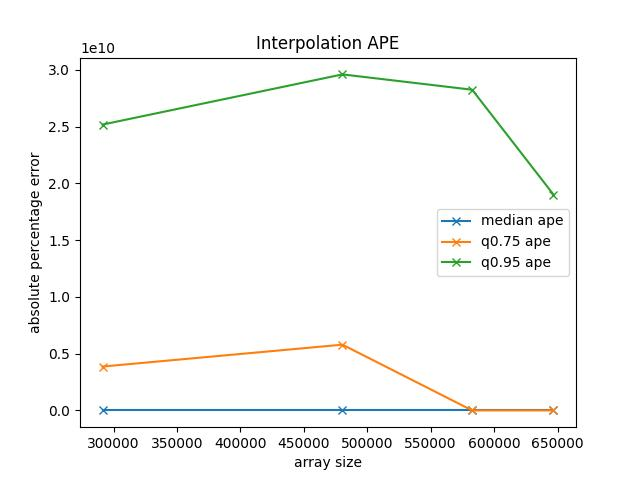
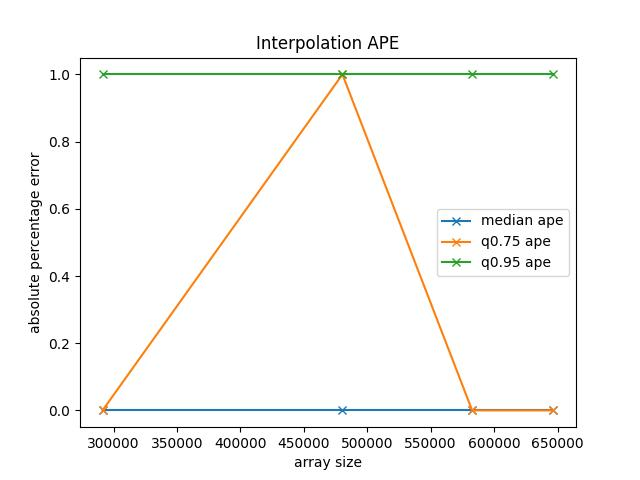
fix triangle search

diff --git a/src/triangulation.h b/src/triangulation.h
@@ -13,29 +13,29 @@ public:
     pbbsbench::triangles<pbbsbench::pointT> triangulation;
     parlay::sequence<parlay::sequence<uint32_t>> adj_p2t;
     std::unordered_map<uint32_t, parlay::sequence<uint32_t>> adj_e2t;
-    py::array_t<int32_t, py::array::c_style | py::array::forcecast> vertices;
+    py::array_t<double, py::array::c_style | py::array::forcecast> vertices;
     py::array_t<int32_t, py::array::c_style | py::array::forcecast> triangles;
     Triangulation() = default;
     Triangulation(pbbsbench::triangles<pbbsbench::pointT>& triangulation);
     ~Triangulation();
     bool point_in_triangle(parlay::sequence<pair<double, uint32_t>>& bar_coords);
     bool point_in_triangle(int32_t x, int32_t y, pbbsbench::tri& triangle);
-    int32_t check_adj_triangles(int32_t x, int32_t y, uint32_t t);
-    int32_t find_triangle(pbbsbench::pointT& p);
-    int32_t find_triangle(int32_t x, int32_t y);
-    int32_t check_neighborhood(int32_t x, int32_t y, int32_t pi);
-    parlay::sequence<std::pair<double, uint32_t>> barycentric_coordinates(int32_t x, int32_t y, uint32_t t);
+    int32_t check_adj_triangles(double x, double y, uint32_t t);
+    //int32_t find_triangle(pbbsbench::pointT& p);
+    int32_t find_triangle(double x, double y);
+    int32_t check_neighborhood(double x, double y, int32_t pi);
+    parlay::sequence<std::pair<double, uint32_t>> barycentric_coordinates(double x, double y, uint32_t t);
 };
 
 Triangulation::Triangulation(pbbsbench::triangles<pbbsbench::pointT>& triangulation) {
     this -> triangulation = triangulation;
-    uint32_t n = triangulation.P.size();
-    uint32_t m = triangulation.T.size();
+    uint32_t n = triangulation.numPoints();
+    uint32_t m = triangulation.numTriangles();
     std::vector<int64_t> points_shape = {long(triangulation.P.size()), 2};
     std::vector<int64_t> triangles_shape = {long(triangulation.T.size()), 3};
-    std::vector<int64_t> points_strides = {sizeof(int32_t) * 2, sizeof(int32_t)};
+    std::vector<int64_t> points_strides = {sizeof(double) * 2, sizeof(double)};
     std::vector<int64_t> triangles_strides = {sizeof(int32_t) * 3, sizeof(int32_t)};
-    std::vector<int32_t> flatten_points(2 * n);
+    std::vector<double> flatten_points(2 * n);
     std::vector<int32_t> flatten_triangles(3 * m);
 
     parlay::parallel_for(0, n, [&](uint32_t i) {
@@ -82,7 +82,14 @@ Triangulation::~Triangulation() {
 }
 
 bool Triangulation::point_in_triangle(parlay::sequence<pair<double, uint32_t>>& bar_coords) {
-    return bar_coords[0].first > 0 and bar_coords[1].first > 0 and bar_coords[2].first > 0;
+    auto r1 = bar_coords[0].first;
+    auto r2 = bar_coords[1].first;
+    auto r3 = bar_coords[2].first;
+    if ((r1 > 0.0 && r1 < 1.0) and (r2 > 0.0 && r2 < 1.0) and (r3 > 0.0 && r3 < 1.0))
+        return true;
+    bool mb_on_edge = ((r1 >= 0.0 && r1 <= 1.0) and (r2 >= 0.0 && r2 <= 1.0) and (r3 >= 0.0 && r3 <= 1.0));
+    return mb_on_edge and (r1 == 0.0 or r2 == 0.0 or r3 == 0.0);
+
 }
 
 bool Triangulation::point_in_triangle(int32_t x, int32_t y, pbbsbench::tri& triangle) {
@@ -109,16 +116,29 @@ bool Triangulation::point_in_triangle(int32_t x, int32_t y, pbbsbench::tri& tria
 //    return -1;
 //}
 
-int32_t Triangulation::find_triangle(int32_t x, int32_t y) {
-    for (int32_t i = 0; i < triangulation.T.size(); ++i) {
-        if (point_in_triangle(x, y, triangulation.T[i])) {
-            return i;
+int32_t Triangulation::find_triangle(double x, double y) {
+//    for (int32_t i = 0; i < triangulation.T.size(); ++i) {
+//        if (point_in_triangle(x, y, triangulation.T[i])) {
+//            return i;
+//        }
+//    }
+    auto min_d = std::numeric_limits<int64_t>::max();
+    uint32_t j = 0;
+    for (uint32_t i = 0; i < triangulation.numPoints(); ++i) {
+        auto p = triangulation.P[i];
+        double dx = (p.x - x);
+        double dy = (p.y - y);
+        double d = dx * dx + dy * dy;
+        if (min_d > d) {
+            min_d = d;
+            j = i;
         }
     }
-    return -1;
+
+    return check_neighborhood(x, y, int32_t(j));
 }
 
-int32_t Triangulation::check_adj_triangles(int32_t x, int32_t y, uint32_t t) {
+int32_t Triangulation::check_adj_triangles(double x, double y, uint32_t t) {
     for (uint32_t i = 0; i < 3; ++i) {
         uint32_t a = triangulation.T[t][i];
         uint32_t b = triangulation.T[t][(i + 1) % 3];
@@ -129,15 +149,17 @@ int32_t Triangulation::check_adj_triangles(int32_t x, int32_t y, uint32_t t) {
         for (auto& tt : adj_e2t[e]) {
             if (tt != t) {
                 auto bar_coords = barycentric_coordinates(x, y, tt);
-                if (point_in_triangle(bar_coords))
+//                std::cout << bar_coords[0].first << ' ' << bar_coords[1].first << ' ' << bar_coords[2].first << std::endl;
+                if (point_in_triangle(bar_coords)) {
                     return tt;
+                }
             }
         }
     }
     return -1;
 }
 
-int32_t Triangulation::check_neighborhood(int32_t x, int32_t y, int32_t pi) {
+int32_t Triangulation::check_neighborhood(double x, double y, int32_t pi) {
     for (auto& t : this -> adj_p2t[pi]) {   // A bit of overhead :retard:
         auto j = check_adj_triangles(x, y, t);
         if (j != -1)
@@ -146,31 +168,31 @@ int32_t Triangulation::check_neighborhood(int32_t x, int32_t y, int32_t pi) {
     return -1;
 }
 
-parlay::sequence<std::pair<double, uint32_t>> Triangulation::barycentric_coordinates(int32_t x, int32_t y, uint32_t t) {
+parlay::sequence<std::pair<double, uint32_t>> Triangulation::barycentric_coordinates(double x, double y, uint32_t t) {
     // https://en.wikipedia.org/wiki/Barycentric_coordinate_system#Vertex_approach
 
     uint32_t i = triangulation.T[t][0];
     uint32_t j = triangulation.T[t][1];
     uint32_t k = triangulation.T[t][2];
 
-    int32_t x1 = triangulation.P[i].x;
-    int32_t y1 = triangulation.P[i].y;
-    int32_t x2 = triangulation.P[j].x;
-    int32_t y2 = triangulation.P[j].y;
-    int32_t x3 = triangulation.P[k].x;
-    int32_t y3 = triangulation.P[k].y;
+    double x1 = triangulation.P[i].x;
+    double x2 = triangulation.P[j].x;
+    double y1 = triangulation.P[i].y;
+    double y2 = triangulation.P[j].y;
+    double x3 = triangulation.P[k].x;
+    double y3 = triangulation.P[k].y;
 
-    int32_t dx32 = x3 - x2;
-    int32_t dx13 = x1 - x3;
-    int32_t dx21 = x2 - x1;
+    double dx32 = x3 - x2;
+    double dx13 = x1 - x3;
+    double dx21 = x2 - x1;
 
-    int32_t dy23 = y2 - y3;
-    int32_t dy31 = y3 - y1;
-    int32_t dy12 = y1 - y2;
+    double dy23 = y2 - y3;
+    double dy31 = y3 - y1;
+    double dy12 = y1 - y2;
 
-    int32_t dxy23 = x2*y3 - x3*y2;
-    int32_t dxy31 = x3*y1 - x1*y3;
-    int32_t dxy12 = x1*y2 - x2*y1;
+    double dxy23 = x2*y3 - x3*y2;
+    double dxy31 = x3*y1 - x1*y3;
+    double dxy12 = x1*y2 - x2*y1;
 
     double one_over_2area = 1.0 / double(dxy12 + dxy31 + dxy23);
 

diff --git a/src/interpolator.h b/src/interpolator.h
@@ -12,71 +12,75 @@ class BiLinearInterpolator {
 public:
     Triangulation triangulation;
     py::array_t<float, py::array::c_style | py::array::forcecast> values;
-    py::array_t<float, py::array::c_style | py::array::forcecast> barycenters;
+//    py::array_t<float, py::array::c_style | py::array::forcecast> barycenters;
     BiLinearInterpolator() = default;
-    BiLinearInterpolator(const py::array_t<int32_t, py::array::c_style | py::array::forcecast>& points,
+    BiLinearInterpolator(const py::array_t<double, py::array::c_style | py::array::forcecast>& points,
                          const py::array_t<float, py::array::c_style | py::array::forcecast>& values);
-    double bilinear_barycentric_interpolation(int32_t& t, parlay::sequence<std::pair<double, uint32_t>>& bar_coords);
-    py::array_t<float, py::array::c_style | py::array::forcecast> call(const py::array_t<int32_t, py::array::c_style | py::array::forcecast>& points,
+    double bilinear_barycentric_interpolation(int32_t t, double fill_value, parlay::sequence<std::pair<double, uint32_t>>& bar_coords);
+    py::array_t<float, py::array::c_style | py::array::forcecast> call(const py::array_t<double, py::array::c_style | py::array::forcecast>& points,
                                                                        const py::array_t<int32_t, py::array::c_style | py::array::forcecast>& neighbors,
                                                                        float fill_value = 0.0);
 };
 
-BiLinearInterpolator::BiLinearInterpolator(const py::array_t<int32_t, py::array::c_style | py::array::forcecast>& points,
+BiLinearInterpolator::BiLinearInterpolator(const py::array_t<double, py::array::c_style | py::array::forcecast>& points,
                                            const py::array_t<float, py::array::c_style | py::array::forcecast>& values) {
     this -> values = values;
     this -> triangulation = pbbsbench::numpy_delaunay(points);
 
     uint32_t m = this -> triangulation.triangulation.T.size();
 
-    parlay::sequence<float> barycenters_(2 * m);
+//    parlay::sequence<float> barycenters_(2 * m);
+//
+//    parlay::parallel_for(0, m, [&](uint32_t t) {
+//        int32_t i = this -> triangulation.triangulation.T[t][0];
+//        int32_t j = this -> triangulation.triangulation.T[t][1];
+//        int32_t k = this -> triangulation.triangulation.T[t][2];
+//
+//        int32_t x1 = triangulation.triangulation.P[i].x;
+//        int32_t y1 = triangulation.triangulation.P[i].y;
+//        int32_t x2 = triangulation.triangulation.P[j].x;
+//        int32_t y2 = triangulation.triangulation.P[j].y;
+//        int32_t x3 = triangulation.triangulation.P[k].x;
+//        int32_t y3 = triangulation.triangulation.P[k].y;
+//
+//        float x = float(x1 + x2 + x3) / 3.0;
+//        float y = float(y1 + y2 + y3) / 3.0;
+//        barycenters_[2 * t] = x;
+//        barycenters_[2 * t + 1] = y;
+//    });
 
-    parlay::parallel_for(0, m, [&](uint32_t t) {
-        int32_t i = this -> triangulation.triangulation.T[t][0];
-        int32_t j = this -> triangulation.triangulation.T[t][1];
-        int32_t k = this -> triangulation.triangulation.T[t][2];
-
-        int32_t x1 = triangulation.triangulation.P[i].x;
-        int32_t y1 = triangulation.triangulation.P[i].y;
-        int32_t x2 = triangulation.triangulation.P[j].x;
-        int32_t y2 = triangulation.triangulation.P[j].y;
-        int32_t x3 = triangulation.triangulation.P[k].x;
-        int32_t y3 = triangulation.triangulation.P[k].y;
-
-        float x = float(x1 + x2 + x3) / 3.0;
-        float y = float(y1 + y2 + y3) / 3.0;
-        barycenters_[2 * t] = x;
-        barycenters_[2 * t + 1] = y;
-    });
-
-    std::vector<int64_t> shape = {m, 2};
-    std::vector<int64_t> strides = {sizeof(float) * 2, sizeof(float)};
-    this -> barycenters = {std::move(shape), std::move(strides), barycenters_.data()};
+//    std::vector<int64_t> shape = {m, 2};
+//    std::vector<int64_t> strides = {sizeof(float) * 2, sizeof(float)};
+//    this -> barycenters = {std::move(shape), std::move(strides), barycenters_.data()};
 
 }
 
-double BiLinearInterpolator::bilinear_barycentric_interpolation(int32_t& t, parlay::sequence<std::pair<double, uint32_t>>& bar_coords) {
-    double f1 = this -> values.at(bar_coords[0].second);
-    double f2 = this -> values.at(bar_coords[1].second);
-    double f3 = this -> values.at(bar_coords[2].second);
+double BiLinearInterpolator::bilinear_barycentric_interpolation(int32_t t, double fill_value, parlay::sequence<std::pair<double, uint32_t>>& bar_coords) {
+    uint32_t i = bar_coords[0].second;
+    uint32_t j = bar_coords[0].second;
+    uint32_t k = bar_coords[0].second;
+    uint32_t n = this -> triangulation.triangulation.numPoints() - 24;
+    double f1 = i < n ? this -> values.at(i) : fill_value;
+    double f2 = j < n ? this -> values.at(j) : fill_value;
+    double f3 = k < n ? this -> values.at(k) : fill_value;
     auto interpolated = (bar_coords[0].first * f1 + bar_coords[1].first * f2 + bar_coords[2].first * f3);
     return interpolated;
 }
 
-py::array_t<float, py::array::c_style | py::array::forcecast> BiLinearInterpolator::call(const py::array_t<int32_t, py::array::c_style | py::array::forcecast>& points,
+py::array_t<float, py::array::c_style | py::array::forcecast> BiLinearInterpolator::call(const py::array_t<double, py::array::c_style | py::array::forcecast>& points,
                                                                                          const py::array_t<int32_t, py::array::c_style | py::array::forcecast>& neighbors,
                                                                                          float fill_value) {
     uint32_t n = points.shape()[0];
     parlay::sequence<float> interpolated(n, fill_value);
 
     parlay::parallel_for(0, n, [&](uint32_t i) {
-        int32_t x = points.at(i, 0);
-        int32_t y = points.at(i, 1);
+        double x = points.at(i, 0);
+        double y = points.at(i, 1);
         int32_t neighbor = neighbors.at(i);
         int32_t t = this -> triangulation.check_neighborhood(x, y, neighbor);
         if (t != -1) {
             auto bar_coords = triangulation.barycentric_coordinates(x, y, t);
-            interpolated[i] = bilinear_barycentric_interpolation(t, bar_coords);
+            interpolated[i] = bilinear_barycentric_interpolation(t, fill_value, bar_coords);
         }
     });
 

diff --git a/src/delaunay.cpp b/src/delaunay.cpp
@@ -211,12 +211,11 @@ void generate_boundary(sequence<pointT> const &P,
   double stretch = 10.0;
   double radius = stretch*size;
   pointT center = max_corner + (max_corner-min_corner)/2.0;
-  double pi = 3.14159;
-
+  constexpr double pi2 = 2.0 * 3.14159265359;
   // Generate the bounding points on a circle far outside the bounding box
   for (size_t i=0; i < boundary_size; i++) {
-    double x = radius * cos(2*pi*((float) i)/((float) boundary_size));
-    double y = radius * sin(2*pi*((float) i)/((float) boundary_size));
+    double x = radius * cos(pi2*((double) i)/((double) boundary_size));
+    double y = radius * sin(pi2*((double) i)/((double) boundary_size));
     pointT pt = center + vect(x,y);
     V[i+n] = vertex_t(pt, i + n);
   }
@@ -317,7 +316,7 @@ triangles<pointT> delaunay(const sequence<pointT> &P) {
 
   pargeo::timer t("delaunay", false);
   t.start();
-  size_t boundary_size = 10;
+  size_t boundary_size = 24;
   size_t n = P.size();
 
   // All vertices needed
@@ -361,37 +360,36 @@ triangles<pointT> delaunay(const sequence<pointT> &P) {
   if (CHECK) check_delaunay(Triangles, boundary_size);
 
   // just the three corner ids for each triangle
-  parlay::sequence<tri> result_triangles;
-//  parlay::parallel_for(0, num_triangles, [&] (uint32_t i) {
-//      vertex_t** vtx = Triangles[i].vtx;
-//      result_triangles[i] = {int32_t(vtx[0] -> id), int32_t(vtx[1] -> id), int32_t(vtx[2] -> id)};
-//      //result_triangles[i].
-//  });
+//  parlay::sequence<tri> result_triangles;
+    auto result_triangles = tabulate(num_triangles, [&] (size_t i) -> tri {
+        vertex_t** vtx = Triangles[i].vtx;
+        tri r = {(int) vtx[0]->id, (int) vtx[1]->id, (int) vtx[2]->id};
+        return r;});
 
-    for (auto& triangle : Triangles) {
-        vertex_t** vtx = triangle.vtx;
-        int32_t a = vtx[0] -> id;
-        int32_t b = vtx[1] -> id;
-        int32_t c = vtx[2] -> id;
-        if (a >= P.size() or b >= P.size() or c >= P.size())
-            continue;
-        result_triangles.push_back({a, b, c}); // amortized complexity O(1) ?
-    }
+//    for (auto& triangle : Triangles) {
+//        vertex_t** vtx = triangle.vtx;
+//        int32_t a = vtx[0] -> id;
+//        int32_t b = vtx[1] -> id;
+//        int32_t c = vtx[2] -> id;
+//        if (a >= P.size() or b >= P.size() or c >= P.size())
+//            continue;
+//        result_triangles.push_back({a, b, c}); // amortized complexity O(1) ?
+//    }
 
   // just the points, including the added boundary points
-//  auto result_points = tabulate(num_vertices, [&] (size_t i) {
-//    pointT r = (i < n) ? P[i] : Vertices[i].pt;
-//    //cout << r[0] << ", " << r[1] << endl;
-//    return r;});
+  auto result_points = tabulate(num_vertices, [&] (size_t i) {
+    pointT r = (i < n) ? P[i] : Vertices[i].pt;
+    //cout << r[0] << ", " << r[1] << endl;
+    return r;});
 #ifndef SILENT
   t.next("generate output");
 #endif
-    return triangles<pointT>(P, result_triangles);
+    return triangles<pointT>(result_points, result_triangles);
 }
 
 // by alexeybelkov
 
-Triangulation numpy_delaunay(const py::array_t<int32_t, py::array::c_style | py::array::forcecast>& array) {
+Triangulation numpy_delaunay(const py::array_t<double, py::array::c_style | py::array::forcecast>& array) {
     uint32_t n = array.shape()[0];
     parlay::sequence<pbbsbench::pointT> P(n);
     parlay::parallel_for (0, n, [&] (uint32_t i) {
@@ -409,7 +407,7 @@ PYBIND11_MODULE(pydelaunay, m) {
             .def(py::init<>(), "Default constructor, does nothing")
 //            .def("find_triangle", static_cast<int32_t (Triangulation::*)(pbbsbench::pointT&)>(&Triangulation::find_triangle),
 //                 "Return index of triangle, containing point p, else return -1", py::arg("p"))
-            .def("find_triangle", static_cast<int32_t (Triangulation::*)(int32_t, int32_t)>(&Triangulation::find_triangle),
+            .def("find_triangle", static_cast<int32_t (Triangulation::*)(double, double)>(&Triangulation::find_triangle),
                  "Return index of triangle, containing point p, else return -1", py::arg("x"), py::arg("y"))
             .def_readonly("vertices", &Triangulation::vertices, "numpy array of vertices")
             .def_readonly("triangles", &Triangulation::triangles, "numpy array of triangles");
@@ -419,8 +417,7 @@ PYBIND11_MODULE(pydelaunay, m) {
                     const py::array_t<float, py::array::c_style | py::array::forcecast>&>())
             .def("__call__", &BiLinearInterpolator::call)
             .def_readonly("triangulation", &BiLinearInterpolator::triangulation)
-            .def_readonly("values", &BiLinearInterpolator::values)
-            .def_readonly("barycenters", &BiLinearInterpolator::barycenters);
+            .def_readonly("values", &BiLinearInterpolator::values);
 }
 
 int main() {}

diff --git a/interp/interpolator.py b/interp/interpolator.py
@@ -5,10 +5,10 @@ from scipy.spatial import KDTree
 
 class Linear2DInterpolator(BiLinearInterpolator):
     def __init__(self, points: np.ndarray[np.int32], values: np.ndarray[np.float32]):
-        super().__init__(points, values)
+        super().__init__(points.astype(np.double), values)
         self.kdtree = KDTree(points)
 
     def __call__(self, points: np.ndarray[np.int32], fill_value: float = 0.0, workers: int = -1) -> np.ndarray[np.float32]:
         _, neighbors = self.kdtree.query(points, 1, workers=workers)
-        int_values: np.ndarray[np.float32] = super().__call__(points, neighbors, fill_value)
-        return int_values
+        int_values: np.ndarray[np.float32] = super().__call__(points.astype(np.double), neighbors, fill_value)
+        return int_values.astype(np.float32)

diff --git a/src/delaunay.h b/src/delaunay.h
@@ -15,5 +15,5 @@ namespace pbbsbench {
   using pointT = point2d<coord>;
 
   triangles<pointT> delaunay(const parlay::sequence<pointT>& P);
-  Triangulation numpy_delaunay(const py::array_t<int32_t, py::array::c_style | py::array::forcecast>& array);
+  Triangulation numpy_delaunay(const py::array_t<double, py::array::c_style | py::array::forcecast>& array);
 }
